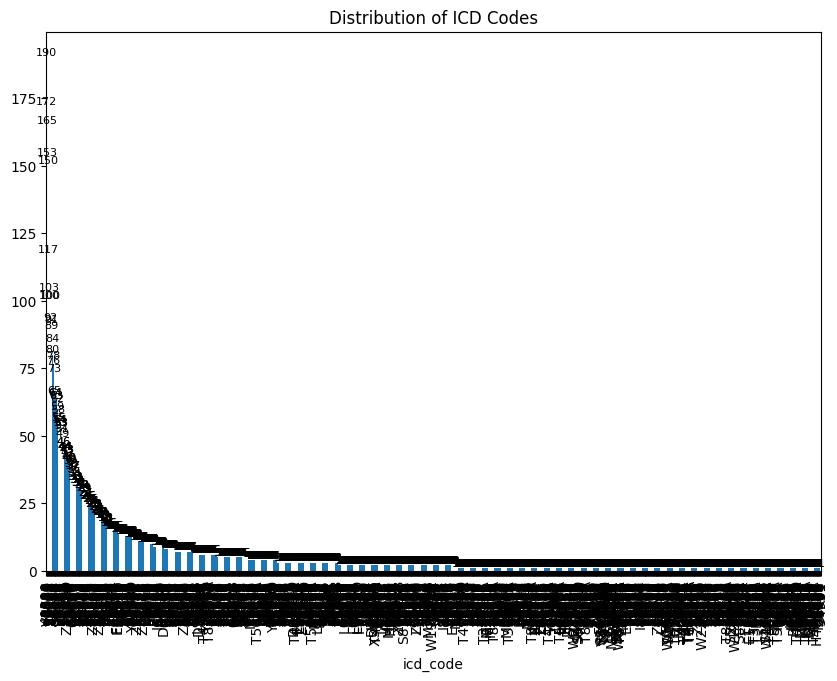
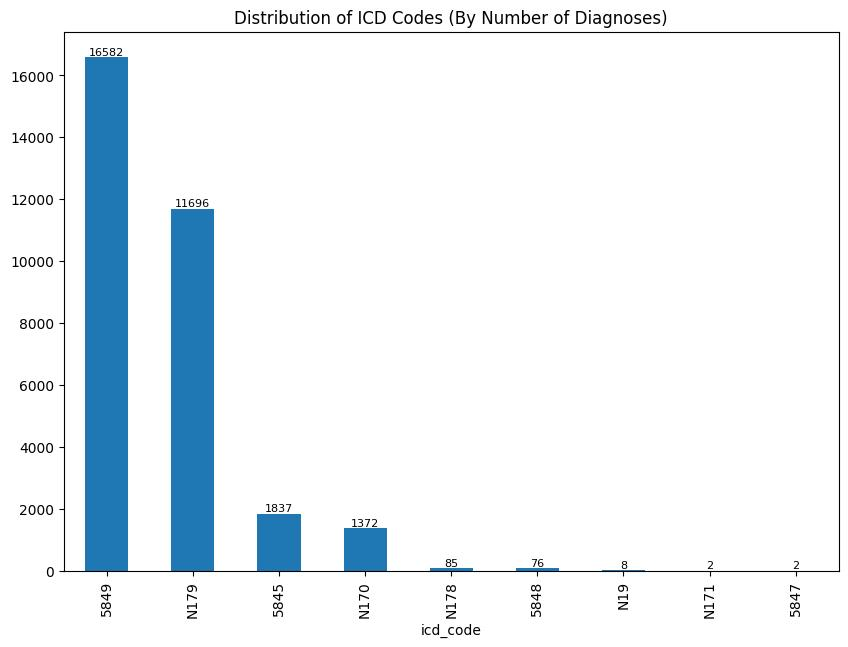
na

Changed region(s): [[0.0, 0.0, 0.994, 0.9892]]

diff --git a/pkgs/commons.py b/pkgs/commons.py
@@ -1,8 +1,10 @@
 from pathlib import Path
 
+
 def project_dir():
     current_script_path = Path(__file__)
     return str(current_script_path.parent.parent)
+
 
 """
 ----------MIMIC-V data paths----------
@@ -12,36 +14,44 @@ diagnose_icd_file_path = f"{project_dir()}/data/mimic-iv-2.2/hosp/diagnoses_icd.
 patients_file_path = f"{project_dir()}/data/mimic-iv-2.2/hosp/patients.csv"
 admissions_file_path = f"{project_dir()}/data/mimic-iv-2.2/hosp/admissions.csv"
 
+
 # Codes extracted from d_icd_diagnoses.csv
-def get_kidney_failure_codes():
-    return icd_9_kidney_failure_code_g1 + icd_9_kidney_failure_code_g2 + icd_9_kidney_failure_code_g3 + \
-             icd_10_kidney_failure_code_g1 + icd_10_kidney_failure_code_g2 + icd_10_kidney_failure_code_g3
+def get_esrd_codes():
+    return (icd_9_esrd_code_g1 + icd_9_esrd_code_g2 + icd_9_esrd_code_g3 +
+            icd_10_esrd_code_g1 + icd_10_esrd_code_g2 + icd_10_esrd_code_g3)
 
-icd_10_kidney_failure_code_g1 = ['N17', 'N170', 'N171', 'N172', 'N178', 'N179'] # Desc: Acute kidney failure with ...
-icd_10_kidney_failure_code_g2 = ['N19'] # Desc: Unspecified kidney failure ...
-icd_10_kidney_failure_code_g3 = ['0904'] # Desc: Postpartum acute kidney failure
 
-icd_9_kidney_failure_code_g1 = ['5845', '5846', '5847', '5848', '5849'] # Desc: Acute kidney failure with ...
-icd_9_kidney_failure_code_g2 = ['6393'] # Desc: Kidney failure following abortion and ectopic and molar pregnancies
-icd_9_kidney_failure_code_g3 = ['66930', '66932', '66934'] # Desc: Acute kidney failure following labor and delivery ...
+icd_10_esrd_code_g1 = ['N17', 'N170', 'N171', 'N172', 'N178', 'N179']  # Desc: Acute kidney failure with ...
+icd_10_esrd_code_g2 = ['N19']  # Desc: Unspecified kidney failure ...
+icd_10_esrd_code_g3 = ['0904']  # Desc: Postpartum acute kidney failure
+
+icd_9_esrd_code_g1 = ['5845', '5846', '5847', '5848', '5849']  # Desc: Acute kidney failure with ...
+icd_9_esrd_code_g2 = ['6393']  # Desc: Kidney failure following abortion and ectopic and molar pregnancies
+icd_9_esrd_code_g3 = ['66930', '66932', '66934']  # Desc: Acute kidney failure following labor and delivery ...
+
 
 def get_target_esrd_codes():
-    return icd_10_kidney_failure_code_g1 + icd_10_kidney_failure_code_g2 + icd_9_kidney_failure_code_g1
+    return icd_10_esrd_code_g1 + icd_10_esrd_code_g2 + icd_9_esrd_code_g1
 
-icd_9_ckd_codes_g1 = ['28521'] # Anemia in chronic kidney disease
-icd_9_ckd_codes_g2 = ['40300', '40301', '40310', '40311', '40390', '40391'] # Hypertensive chronic kidney disease ...
-icd_9_ckd_codes_g3 = [['40400', '40401', '40402', '40403', '40410', '40411', '40412', '40413', '40490', '40491', '40492', '40493']] # Hypertensive heart and chronic kidney disease ...
-icd_9_ckd_codes_g4 = ['5851', '5852', '5853', '5854', '5855', '5859'] # Chronic kidney disease
 
-icd_10_ckd_codes_g1 = ['D631'] # Anemia in chronic kidney disease
-icd_10_ckd_codes_g2 = ['E0822', 'E0922', 'E1022', 'E1122', 'E1322'] # ... with diabetic chronic kidney disease
-icd_10_ckd_codes_g3 = ['I12', 'I120', 'I129', 'I13', 'I130', 'I131', 'I1310', 'I1311', 'I132'] # Hypertensive chronic kidney disease
-icd_10_ckd_codes_g4 = ['N18', 'N181', 'N182', 'N183', 'N184', 'N185', 'N189'] # Chronic kidney disease
+icd_9_ckd_codes_g1 = ['28521']  # Anemia in chronic kidney disease
+icd_9_ckd_codes_g2 = ['40300', '40301', '40310', '40311', '40390', '40391']  # Hypertensive chronic kidney disease ...
+icd_9_ckd_codes_g3 = ['40400', '40401', '40402', '40403', '40410', '40411',
+                      '40412', '40413', '40490', '40491', '40492',
+                      '40493']  # Hypertensive heart and chronic kidney disease ...
+icd_9_ckd_codes_g4 = ['5851', '5852', '5853', '5854', '5855', '5859']  # Chronic kidney disease
+
+icd_10_ckd_codes_g1 = ['D631']  # Anemia in chronic kidney disease
+icd_10_ckd_codes_g2 = ['E0822', 'E0922', 'E1022', 'E1122', 'E1322']  # ... with diabetic chronic kidney disease
+icd_10_ckd_codes_g3 = ['I12', 'I120', 'I129', 'I13', 'I130', 'I131', 'I1310', 'I1311',
+                       'I132']  # Hypertensive chronic kidney disease
+icd_10_ckd_codes_g4 = ['N18', 'N181', 'N182', 'N183', 'N184', 'N185', 'N189']  # Chronic kidney disease
 
 
 def get_target_ckd_codes():
     return (icd_9_ckd_codes_g1 + icd_9_ckd_codes_g2 + icd_9_ckd_codes_g3 + icd_9_ckd_codes_g4
             + icd_10_ckd_codes_g1 + icd_10_ckd_codes_g2 + icd_10_ckd_codes_g3 + icd_10_ckd_codes_g4)
+
 
 """
 ----------Generated data paths----------

diff --git a/pkgs/data.py b/pkgs/data.py
@@ -1,6 +1,6 @@
 import pandas as pd
 from commons import (
-    diagnose_icd_file_path, patients_file_path, get_kidney_failure_codes,
+    diagnose_icd_file_path, patients_file_path, get_esrd_codes,
     figs_path, figs_path_gender_statistics, figs_path_age_statistics,
     age_bins, figs_path_race_statistics, figs_path_race_stats, figs_path_icd_stats, get_target_esrd_codes,
     get_target_ckd_codes, admissions_file_path
@@ -14,15 +14,10 @@ def analyze_esrd():
     print("analyzing patients")
 
     plot_icd_codes(diagnoses_df)
-    diagnoses_df = filter_diagnoses_df_for_target_kidney_failure_codes(diagnoses_df)
 
     gender_statistics(patients_df, diagnoses_df)
     age_statistics(patients_df, diagnoses_df)
     race_statistics(patients_df, diagnoses_df)
-
-
-def filter_diagnoses_df_for_target_kidney_failure_codes(df):
-    return df[df['icd_code'].isin(get_target_esrd_codes())]
 
 
 def age_statistics(patients_df, diagnoses_df):
@@ -58,7 +53,6 @@ def age_statistics(patients_df, diagnoses_df):
 
 
 def plot_icd_codes(diagnoses_df):
-    # Count the occurrences of each ICD code
     icd_code_counts = diagnoses_df['icd_code'].value_counts()
 
     plt.figure(figsize=(10, 7))
@@ -75,7 +69,7 @@ def plot_icd_codes(diagnoses_df):
             fontsize=8
         )
 
-    plt.title('Distribution of ICD Codes')
+    plt.title('Distribution of ICD Codes (By Number of Diagnoses)')
     plt.ylabel('')  # Hide the y-label for the pie chart
 
     plt.savefig(figs_path_icd_stats, bbox_inches="tight")
@@ -131,7 +125,7 @@ def get_admission_df(with_processed_race: bool):
 def race_statistics(patients_df, diagnoses_df):
     print(f"Race statistics:\n")
 
-    admission_df = get_admission_df(False)
+    admission_df = get_admission_df(True)
 
     merged_df = pd.merge(patients_df, admission_df, on='subject_id')
     merged_df = pd.merge(merged_df, diagnoses_df, on='subject_id')
@@ -165,6 +159,7 @@ def get_esrd_patients_and_diagnoses():
 
     print("filtering for kidney failure")
     esrd_diagnose_df = filter_ckd_esrd_diagnose(diagnoses_df)
+    esrd_diagnose_df = esrd_diagnose_df[esrd_diagnose_df['icd_code'].isin(get_esrd_codes())]
     print(
         f"number of rows: {esrd_diagnose_df.shape[0]}. number of subjects: {esrd_diagnose_df['subject_id'].nunique()}\n"
         f"percentage of subjects in dataset with kidney failure: {esrd_diagnose_df['subject_id'].nunique() / diagnoses_df['subject_id'].nunique() * 100:.3f}"
